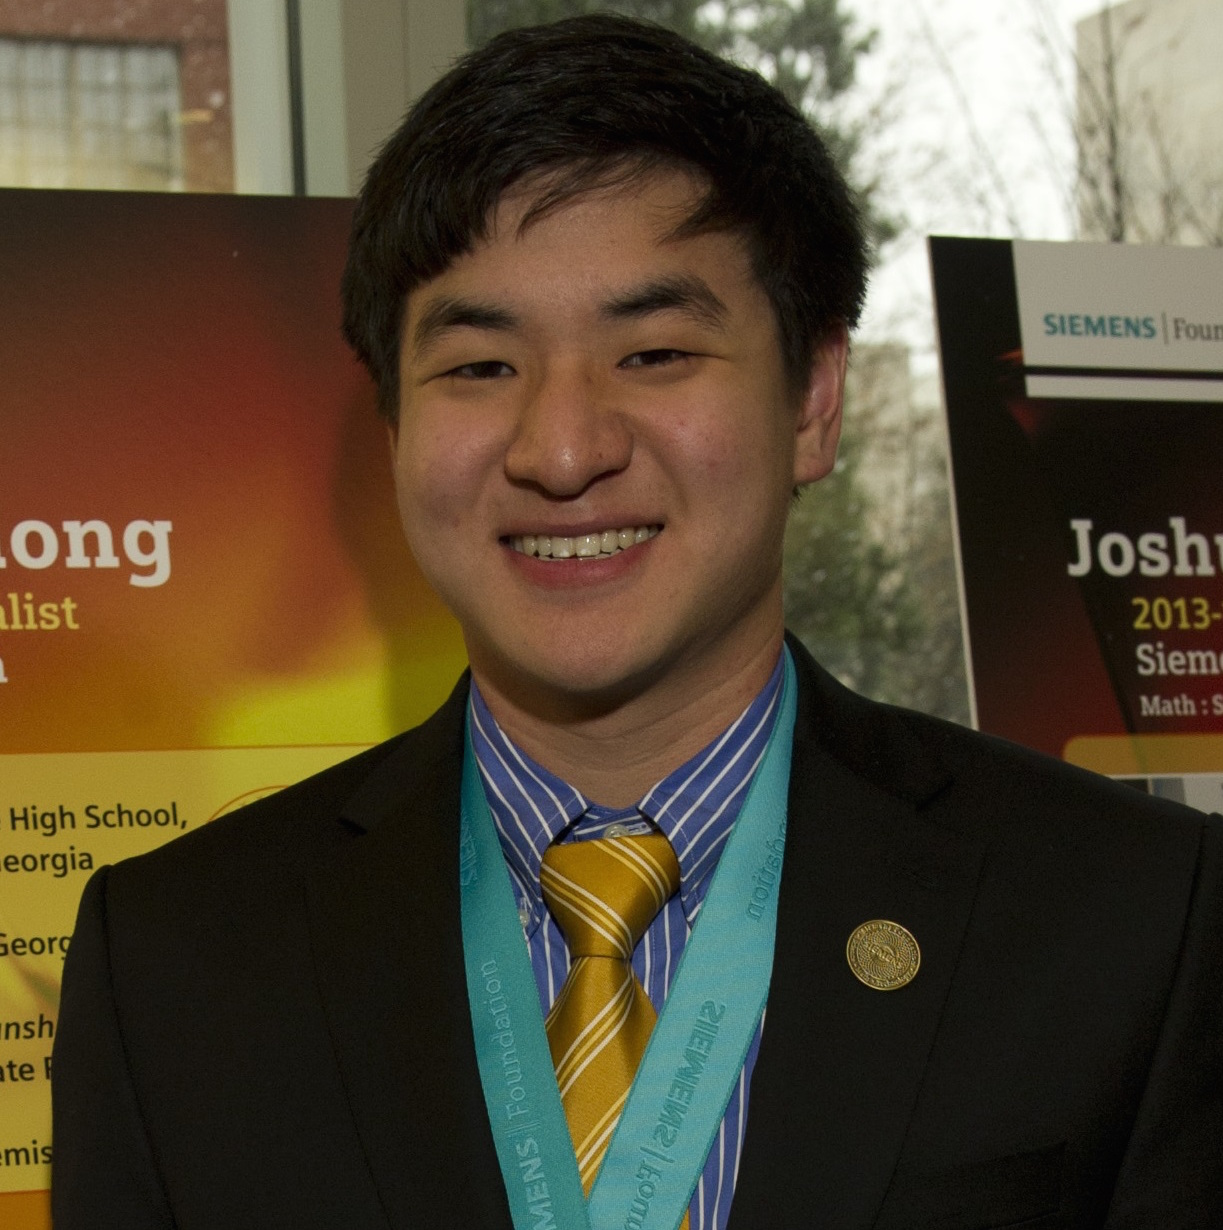
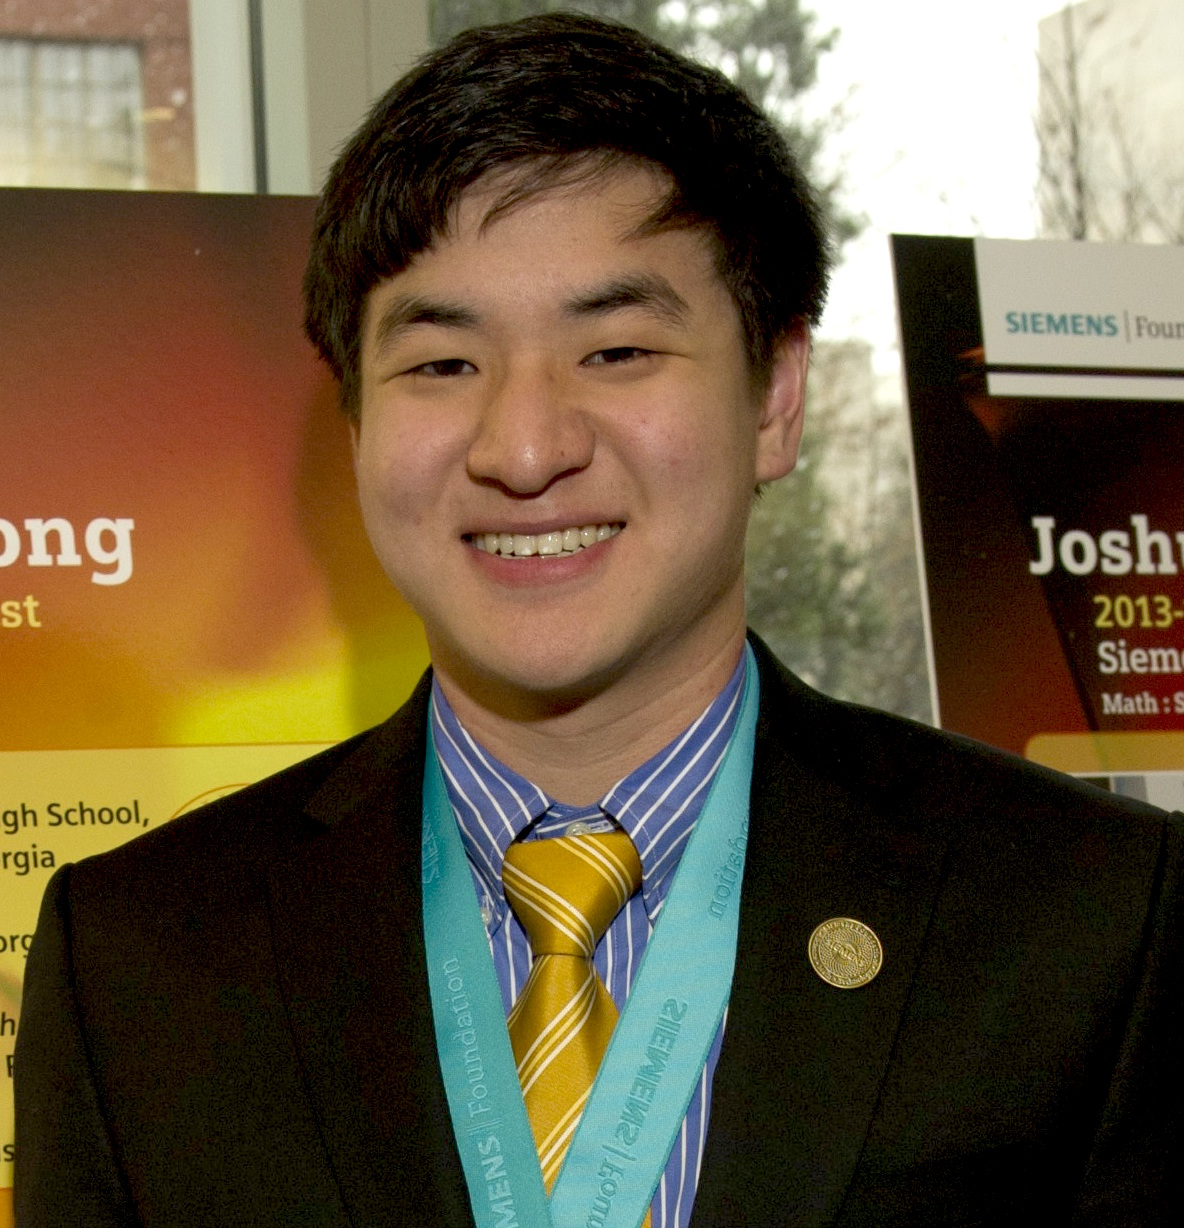
team updated

diff --git a/home/templates/home/index.html b/home/templates/home/index.html
@@ -65,7 +65,7 @@
                         <a class="page-scroll" href="#download"  style="color: #fff;"> Previous Webtool</a>
                     </li>
                     <li>
-                        <a class="page-scroll" href="#team"  style="color: #fff;">Team</a>
+                        <a class="page-scroll" href="#team-section"  style="color: #fff;">Team</a>
                     </li>
                      <li>
                         <a class="page-scroll" href="#contact" style="color: #fff;">Contact</a>
@@ -130,45 +130,45 @@
         </div>
     </section>
 
-    <section id="team" class="container content-section text-center">
+    <section id="team-section" class="container content-section text-center">
         <div class="row" style="margin:0; padding:0;">
-            <div class="col-lg-8 col-lg-offset-2">
+            <div class="team">
                 <h2>Our Research Team</h2>
-                    <ul class="team-row">
-                        <li class="team-profile">
-                            <a href="https://www.linkedin.com/pub/mehlika-toy/7/871/5b3" target="_blank"><img class="team-profile-img" src="{% static 'home/img/team/mtoy.png' %}">
-                            <h4 class="team-name">Dr. Mehlika Toy</h4>
-                            </a>
-                        </li>
-                        <li class="team-profile">
-                            <a href="https://med.stanford.edu/profiles/samuel-so" target="_blank"><img class="team-profile-img" src="{% static 'home/img/team/so.jpg' %}">
-                            <h4 class="team-name">Dr. Samuel So</h4>
-                            </a>
-                        </li>
-                    </ul>
-                    <ul class="team-row">
-                        <li class="team-profile">
-                            <a href="http://calvin.ismyreal.name/" target="_blank"><img class="team-profile-img" src="{% static 'home/img/team/calvin.jpeg' %}">
-                            <h4 class="team-name">Calvin Yin</h4>
-                            </a>
-                        </li>
-                        <li class="team-profile">
-                            <a href="http://jkim0110.bol.ucla.edu/" target="_blank"><img class="team-profile-img" src="{% static 'home/img/team/jasmine.jpeg' %}">
-                            <h4 class="team-name">Jasmine Kim</h4>
-                            </a>
-                        </li>
-                        <li class="team-profile">
-                            <a href="https://www.linkedin.com/in/gmeixiong" target="_blank"><img class="team-profile-img" src="{% static 'home/img/team/gerry.jpeg' %}">
-                            <h4 class="team-name">Gerry Meixiong</h4>
-                            </a>
-                        </li>
-                        <li class="team-profile">
-                            <a href="mailto:research.stat.alc@gmail.com">
-                            <img class="team-profile-img" src="{% static 'home/img/team/bin.png' %}">
-                            <h4 class="team-name">Bin Wei</h4>
-                            </a>
-                        </li>
-                    </ul>
+                <ul class="team-row">
+                    <li class="team-profile">
+                        <a href="https://www.linkedin.com/pub/mehlika-toy/7/871/5b3" target="_blank"><img class="team-profile-img" src="{% static 'home/img/team/mtoy.png' %}">
+                        <h4 class="team-name">Dr. Mehlika Toy</h4>
+                        </a>
+                    </li>
+                    <li class="team-profile">
+                        <a href="https://med.stanford.edu/profiles/samuel-so" target="_blank"><img class="team-profile-img" src="{% static 'home/img/team/so.jpg' %}">
+                        <h4 class="team-name">Dr. Samuel So</h4>
+                        </a>
+                    </li>
+                </ul>
+                <ul class="team-row">
+                    <li class="team-profile">
+                        <a href="http://calvin.ismyreal.name/" target="_blank"><img class="team-profile-img" src="{% static 'home/img/team/calvin.jpeg' %}">
+                        <h4 class="team-name">Calvin Yin</h4>
+                        </a>
+                    </li>
+                    <li class="team-profile">
+                        <a href="http://jkim0110.bol.ucla.edu/" target="_blank"><img class="team-profile-img" src="{% static 'home/img/team/jasmine.jpeg' %}">
+                        <h4 class="team-name">Jasmine Kim</h4>
+                        </a>
+                    </li>
+                    <li class="team-profile">
+                        <a href="mailto:research.stat.alc@gmail.com">
+                        <img class="team-profile-img" src="{% static 'home/img/team/bin.jpeg' %}">
+                        <h4 class="team-name">Bin Wei</h4>
+                        </a>
+                    </li>
+                    <li class="team-profile">
+                        <a href="https://www.linkedin.com/in/gmeixiong" target="_blank"><img class="team-profile-img" src="{% static 'home/img/team/gerry.jpeg' %}">
+                        <h4 class="team-name">Gerry Meixiong</h4>
+                        </a>
+                    </li>
+                </ul>
             </div>
         </div>
     </section>

diff --git a/home/static/home/css/style.css b/home/static/home/css/style.css
@@ -97,13 +97,18 @@
 	font: white;
 }
 
-
-/*the team profiles*/
-
+.team-section{
+    width:1200px;
+}
+@media only screen and (max-width: 900px){
+    .team-section { width: 90%; }
+}
+@media only screen and (max-width: 520px){
+    .team-section { width: 50%; }
+}
 .team-row{
 	margin-bottom: 0;
   	padding-left: 0;
-  	min-width: 720px;
   	list-style: none;
 }
 
